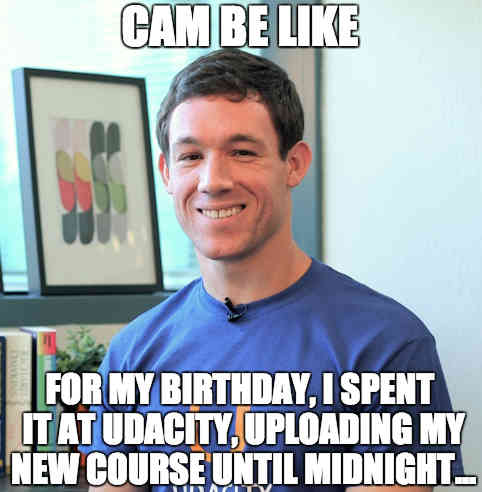
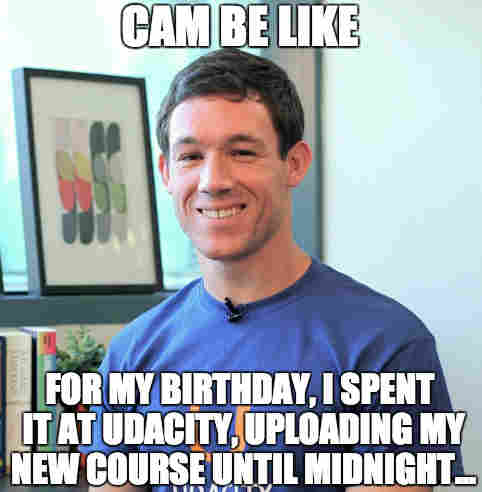
Optimize images, CSS and Webfonts

diff --git a/index.html b/index.html
@@ -3,25 +3,87 @@
   <head>
     <meta charset="utf-8">
     <meta name="viewport" content="width=device-width, initial-scale=1">
-    <meta name="description" content=" FILL ME IN ">
-    <meta name="author" content=" FILL ME IN ">
-    <title>Cameron Pittman: Portfolio</title>
+    <meta name="description" content="Udacity Web Optimization Project">
+    <meta name="author" content="Erika LeBlanc">
+    <title>Udacity Web Optimization Project</title>
 
-    <!-- Hmm, what is the impact of web fonts on speed? Measure it... -->
-    <link href="//fonts.googleapis.com/css?family=Open+Sans:400,700" rel="stylesheet">
+<!-- inlined css from style.css & print.css to reduce render blocking css -->
+  <style>
+  html {
+    font-size: 100%;
+    overflow-y: scroll;
+    -webkit-tap-highlight-color: rgba(0,0,0,0);
+    -ms-text-size-adjust: 100%;
+    -webkit-text-size-adjust: none;
+  }
+  body { margin: 0; font-size: 14px; line-height: 1.61; font-weight: 400; }
+  body, button, input, select, textarea { font-family: 'Open Sans', sans-serif; color: #333; }
 
-    <link href="css/style.css" rel="stylesheet">
-    <link href="css/print.css" rel="stylesheet">
+  a { color: #12C; }
+  a:visited { color: #61C; }
+  a:focus { outline: thin dotted; }
+  a:hover, a:active { color: #c00; outline: 0; }
 
+  b, strong { font-weight: bold; }
+  pre, code { font-family: monospace, monospace; font-size: 1em; }
+  ul, ol { margin: 1em 0; padding: 0 0 0 20px; }
+  img { border: 0; max-width: 100%; }
+
+  body { background: #fff; }
+  header, footer, .container { max-width: 45em; margin: 0 auto; }
+
+  header { padding: 0 0.5em; color: #C90B0B; }
+  header img { border-radius: 40px; float: left; }
+  header p { font-size:1.5em; font-weight: bold; padding-left: 4em;}
+  header p span { font-size: 0.8em; font-weight: normal;}
+
+  .hero { padding: 2em; background-color: #f8f8f8; font-size:1.2em;
+    border-bottom: 1px solid #ccc;
+    border-top: 1px solid #ccc;
+  }
+
+  .content { padding: 1em 1em; }
+  .content li { list-style-type: none; font-size: 1.1em;}
+  li img { float:left; padding-right: 1em; }
+  li p { font-size: 0.9em; font-style: italic; }
+
+  footer {
+    padding: 0 0.5em;
+    border-top: 1px solid #ccc;
+  }
+  footer span { float: right; font-style: italic; }
+
+  /* Smartphones (portrait) */
+  @media only screen and (max-width: 480px) {
+    body { font-size: 12px;}
+    header p { padding-left: 4.5em;}
+  }
+
+
+  @media print {
+    * { background: transparent !important; color: black !important; text-shadow: none !important; filter:none !important; -ms-filter: none !important; }
+    a, a:visited { color: #444 !important; text-decoration: underline; }
+    a[href]:after { content: " (" attr(href) ")"; }
+    tr, img { page-break-inside: avoid; }
+    img { max-width: 100% !important; }
+    @page { margin: 0.5cm; }
+    p, h2, h3 { orphans: 3; widows: 3; }
+    h2, h3{ page-break-after: avoid; }
+  }
+  </style>
+
+<!-- added my own Google Analytics account -->
     <script>
-      (function(w,g){w['GoogleAnalyticsObject']=g;
-      w[g]=w[g]||function(){(w[g].q=w[g].q||[]).push(arguments)};w[g].l=1*new Date();})(window,'ga');
+(function(i,s,o,g,r,a,m){i['GoogleAnalyticsObject']=r;i[r]=i[r]||function(){
+(i[r].q=i[r].q||[]).push(arguments)},i[r].l=1*new Date();a=s.createElement(o),
+m=s.getElementsByTagName(o)[0];a.async=1;a.src=g;m.parentNode.insertBefore(a,m)
+})(window,document,'script','https://www.google-analytics.com/analytics.js','ga');
 
-      // Optional TODO: replace with your Google Analytics profile ID.
-      ga('create', 'UA-XXXX-Y');
-      ga('send', 'pageview');
+ga('create', 'UA-90430900-1', 'auto');
+ga('send', 'pageview');
+
+</script>
     </script>
-    <script src="http://www.google-analytics.com/analytics.js"></script>
     <script async src="js/perfmatters.js"></script>
   </head>
 
@@ -67,6 +129,13 @@
       <footer>
         <p>&copy; Web Performance 2014 <span id="crp-stats"></span></p>
       </footer>
+      <script>
+      WebFontConfig = {
+         google: {
+             families: ['Open Sans:300,700']
+ }
+};
+  </script>
     </div>
   </body>
 </html>

diff --git a/Gruntfile.js b/Gruntfile.js
@@ -9,8 +9,8 @@ module.exports = function(grunt) {
           sizes: [{
             width: 700,
             height: 525,
-            suffix: 'sm',
-            quality: 30
+            suffix: 'med',
+            quality: 15
           }]
         },
 
@@ -23,28 +23,7 @@ module.exports = function(grunt) {
       }
     },
 
-    /* Clear out the images directory if it exists */
-    // clean: {
-    //   dev: {
-    //     src: ['images'],
-    //   },
-    // },
-    //
-    // /* Generate the images directory if it is missing */
-    // mkdir: {
-    //   dev: {
-    //     options: {
-    //       create: ['images']
-    //     },
-    //   },
-    // },
-
   });
 
   grunt.loadNpmTasks('grunt-responsive-images');
-  // grunt.loadNpmTasks('grunt-contrib-clean');
-  // grunt.loadNpmTasks('grunt-contrib-copy');
-  // grunt.loadNpmTasks('grunt-mkdir');
-  grunt.registerTask('default', ['clean', 'mkdir', 'responsive_images']);
-
 };
